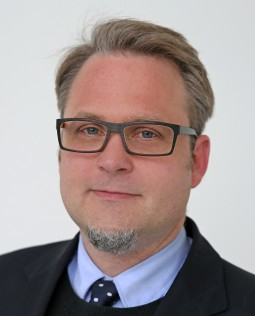
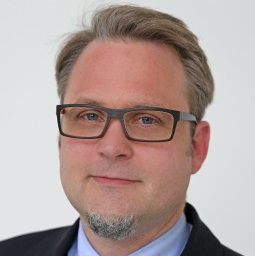
add vanginneken image

diff --git a/index.html b/index.html
@@ -147,29 +147,39 @@
 			<div class="tile is-ancestor is-vertical">
 				<div class="tile is-parent">
 					<div class="tile is-child">
-						<div class="content">
 							<div class="box">
-								<a name="vanGinneken"></a>
-								<h3 class="title">Bram van Ginneken</h3>
-								<h4 class="subtitle">Title</h4>
+								<div class="columns is-mobile-is-centered is-vcentered">
+									<div class="column">
+										<figure class="image is-128x128">
+											<img class="is-rounded" src="images/vanGinneken.jpg">
+										</figure>
+									</div>
+								<div class="column">
+									<a name="vanGinneken"></a>
+									<h3 class="title">Bram van Ginneken</h3>
+									<h4 class="subtitle">Diagnostic Image Analysis Group, Radboud University Medical Center</h4>
+									<h4 class="subtitle"></h4>
+								</div>
+								<div class="content">
 								<hr>
+								</div>
 							</div>
 						</div>
 					</div>
 			
 					<div class="tile is-child">
 						<div class="box">
-                            <div class="columns is-mobile is-centered is-vcentered">
-                                <div class="column">
-                                    <figure class="image is-128x128">
-                                        <img class="is-rounded" src="images/kersting.jpg">
-                                    </figure>
-                                </div>
+               <div class="columns is-mobile is-centered is-vcentered">
+                   <div class="column">
+                      <figure class="image is-128x128">
+                         <img class="is-rounded" src="images/kersting.jpg">
+                      </figure>
+                   </div>
                                 <div class="column">
                                     <a name="Kersting"></a>
                                     <h3 class="title">Kristian Kersting</h3>
-                                    <h4 class="subtitle">TU Darmstadt</h3>
-                                    <h4 class="subtitle">Title</h4>
+                                    <h4 class="subtitle">Technische Universität Darmstadt</h3>
+                                    <h4 class="subtitle"></h4>
                                 </div>
                             </div>
 							<div class="content">
@@ -252,7 +262,7 @@
 							<div class="content">
 								<a name="Bucher"></a>
 								<h3 class="title">Andreas Bucher</h3>
-								<h4 class="subtitle">Title</h4>
+								<h4 class="subtitle"></h4>
 								<hr>
 							</div>
 						</div>
@@ -263,7 +273,7 @@
 							<div class="content">
 								<a name="Cramer"></a>
 								<h3 class="title">Jayshree Kalpathy-Cramer</h3>
-								<h4 class="subtitle">Title of Talk</h4>
+								<h4 class="subtitle"></h4>
 								<hr>
 							</div>
 						</div>
@@ -277,7 +287,7 @@
 							<div class="content">
 								<a name="Stoyanov"></a>
 								<h3 class="title">Dan Stoyanov</h3>
-								<h4 class="subtitle">Title</h4>
+								<h4 class="subtitle"></h4>
 								<hr>
 							</div>
 						</div>
@@ -288,7 +298,7 @@
 							<div class="content">
 								<a name="Natarajan"></a>
 								<h3 class="title">Sriraam Natarajan</h3>
-								<h4 class="subtitle">Title</h4>
+								<h4 class="subtitle"></h4>
 								Abstract
 								<hr>
 								Bio
@@ -301,7 +311,7 @@
 							<div class="content">
 								<a name="Tolkach"></a>
 								<h3 class="title">Yuri Tolkach</h3>
-								<h4 class="subtitle">Title</h4>
+								<h4 class="subtitle"></h4>
 								<hr>
 							</div>
 						</div>
